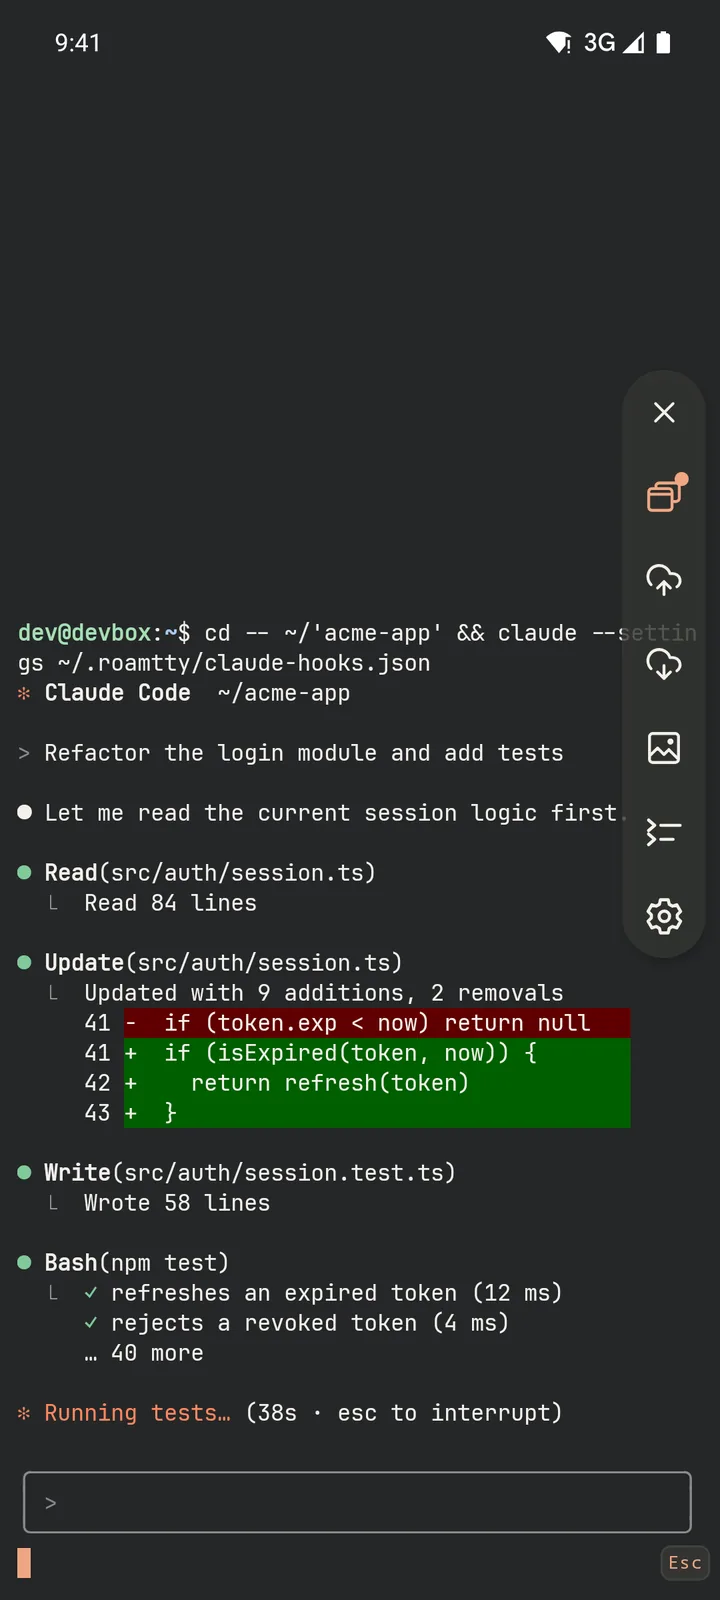
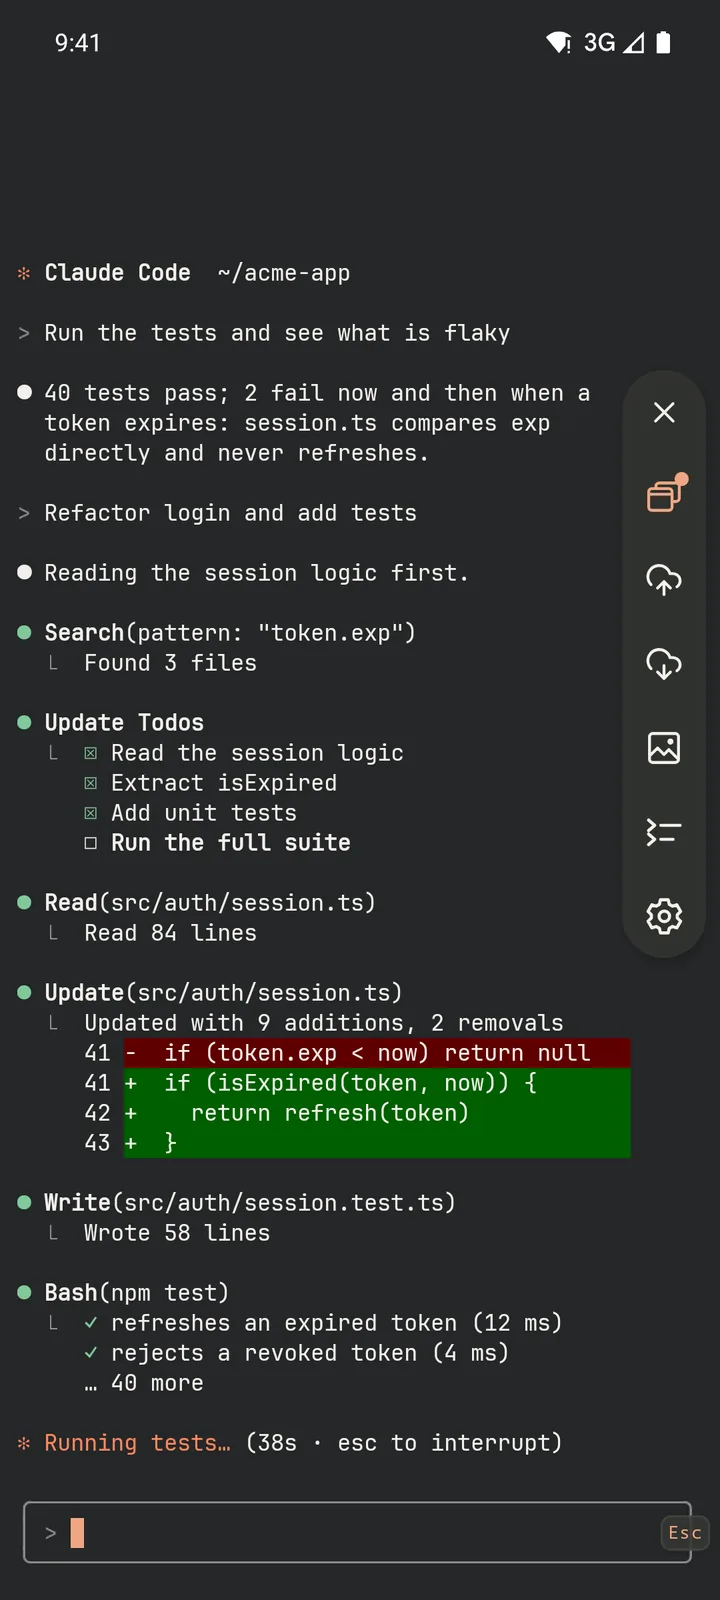
docs(site): action bar screenshots without the agent launch line
The demo agent now clears tmux history and redraws on resize, so the
cd && claude command no longer scrolls back into view.

diff --git a/scripts/site-demo/fake-agent.py b/scripts/site-demo/fake-agent.py
@@ -125,14 +125,22 @@ def main():
     signal.signal(signal.SIGINT, lambda *_: (tmux_set("@roamtty_agent", ""), sys.exit(0)))
     {"acme-app": claude_app, "infra": codex_infra, "blog": claude_blog}.get(folder, claude_blog)()
     text = "".join(OUT).rstrip("\n")
-    rows = os.get_terminal_size().lines if sys.stdout.isatty() else 40
-    pad = max(0, rows - text.count("\n") - 1)
-    sys.stdout.write("\x1b[2J\x1b[H" + "\n" * pad + text)
-    if folder == "infra":
-        sys.stdout.write("\x1b[?25l")
-    else:
-        sys.stdout.write("\x1b[1A\x1b[2G\x1b[C\x1b[C\x1b[C")
-    sys.stdout.flush()
+
+    def draw(*_):
+        # Drop the launch command from tmux's history too, or a taller window pulls it back into view.
+        if pane:
+            subprocess.run(["tmux", "clear-history", "-t", pane], stderr=subprocess.DEVNULL)
+        rows = os.get_terminal_size().lines if sys.stdout.isatty() else 40
+        pad = max(0, rows - text.count("\n") - 1)
+        sys.stdout.write("\x1b[2J\x1b[3J\x1b[H" + "\n" * pad + text)
+        if folder == "infra":
+            sys.stdout.write("\x1b[?25l")
+        else:
+            sys.stdout.write("\x1b[1A\x1b[2G\x1b[C\x1b[C\x1b[C")
+        sys.stdout.flush()
+
+    draw()
+    signal.signal(signal.SIGWINCH, draw)
     for line in sys.stdin:
         pass
     while True:
